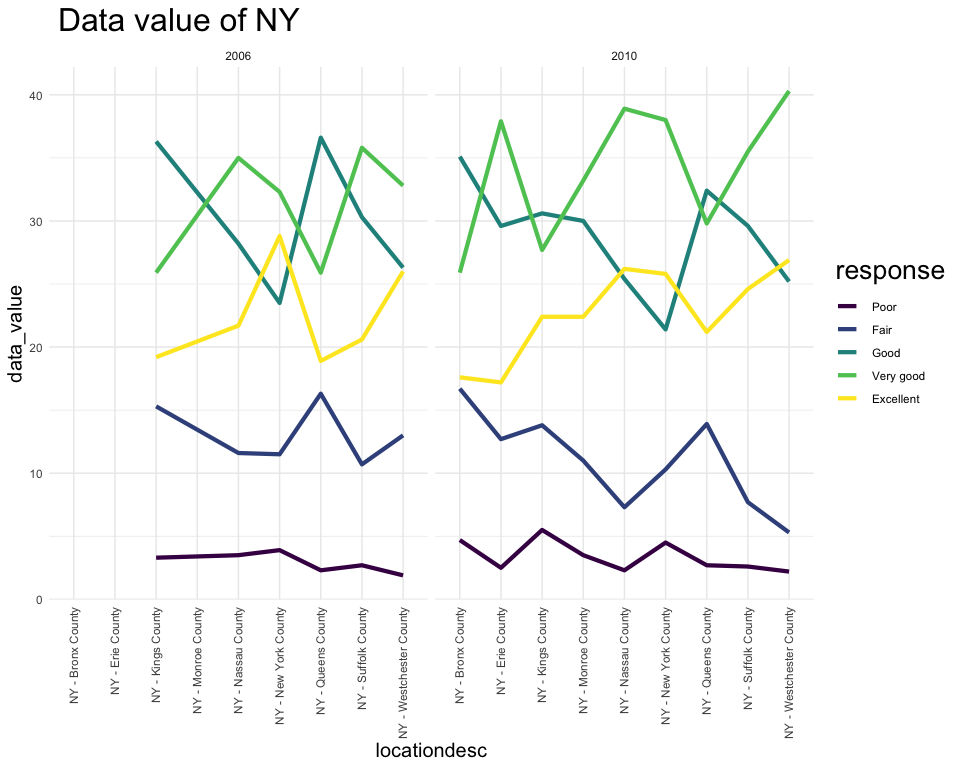
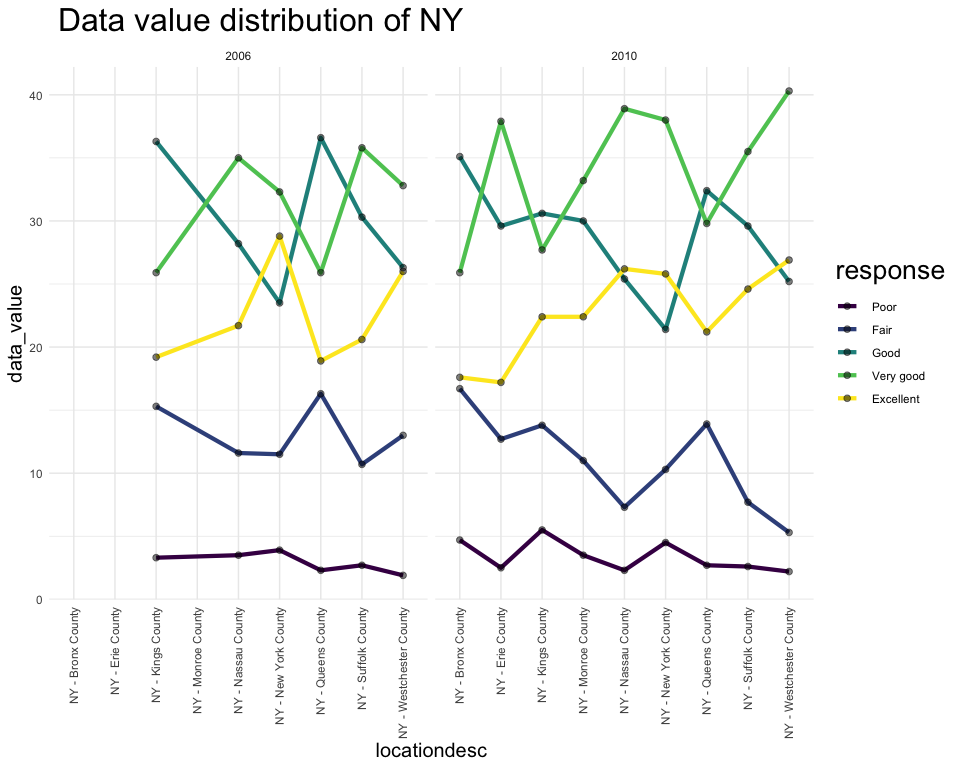
change plots of problem 2

Changed region(s): [[0.2188, 0.0, 0.5, 0.0625], [0.625, 0.3438, 0.6562, 0.375], [0.4062, 0.3438, 0.4375, 0.375]]

diff --git a/p8105_hw3_wx2233.md b/p8105_hw3_wx2233.md
@@ -297,35 +297,57 @@ ext_avg_data_value %>%
 ```
 
 <img src="p8105_hw3_wx2233_files/figure-gfm/unnamed-chunk-9-1.png" width="90%" />
+
 The average data value fluctuates by years for each
 state.
 
 ### c) Make a two-panel plot showing, for the years 2006, and 2010, distribution of data\_value for responses (“Poor” to “Excellent”) among locations in NY State.
 
 ``` r
-NY_data_value = brfss %>% 
-  filter(year == 2006 | year == 2010,state == "NY") %>% 
-  select(year,state,locationdesc,response,data_value)
-
-NY_data_value %>% 
-ggplot(aes(x = response, y = data_value,fill = locationdesc)) +
-  geom_bar(stat = "identity", position = "dodge") +
-  geom_line(aes(group = locationdesc, color = locationdesc)) +
-  geom_point(size = 1.5, alpha = 0.5)+
-  labs(
-    title = " Data value of NY"
-  ) +
-  facet_grid(. ~ year)
+# NY_data_value = brfss %>% 
+#   filter(year == 2006 | year == 2010,state == "NY") %>% 
+#   select(year,state,locationdesc,response,data_value)
+# 
+# NY_data_value %>% 
+# ggplot(aes(x = response, y = data_value,fill = locationdesc)) +
+#   geom_bar(stat = "identity", position = "dodge") +
+#   geom_line(aes(group = locationdesc, color = locationdesc)) +
+#   geom_point(size = 1.5, alpha = 0.5) +
+#   labs(
+#     title = " Data value of NY"
+#   ) +
+#   facet_grid(. ~ year)
 ```
 
-<img src="p8105_hw3_wx2233_files/figure-gfm/unnamed-chunk-10-1.png" width="90%" />
+``` r
+NY_data_value = brfss %>% 
+filter(year == 2006 | year == 2010,state == "NY") %>% 
+select(year,state,locationdesc,response,data_value)  
+NY_data_value
+```
+
+    ## # A tibble: 75 x 5
+    ##     year state locationdesc      response  data_value
+    ##    <int> <chr> <chr>             <fct>          <dbl>
+    ##  1  2010 NY    NY - Bronx County Excellent       17.6
+    ##  2  2010 NY    NY - Bronx County Very good       25.9
+    ##  3  2010 NY    NY - Bronx County Good            35.1
+    ##  4  2010 NY    NY - Bronx County Fair            16.7
+    ##  5  2010 NY    NY - Bronx County Poor             4.7
+    ##  6  2010 NY    NY - Erie County  Excellent       17.2
+    ##  7  2010 NY    NY - Erie County  Very good       37.9
+    ##  8  2010 NY    NY - Erie County  Good            29.6
+    ##  9  2010 NY    NY - Erie County  Fair            12.7
+    ## 10  2010 NY    NY - Erie County  Poor             2.5
+    ## # … with 65 more rows
 
 ``` r
 NY_data_value %>% 
 ggplot(aes(x = locationdesc, y = data_value,fill = response)) +
   geom_line(aes(group = response, color = response),size = 1.5) +
+  geom_point(size = 2, alpha = 0.5) +
   labs(
-    title = " Data value of NY"
+    title = " Data value distribution of NY"
   ) +
   facet_grid(. ~ year) +
   theme(
@@ -365,7 +387,9 @@ accel = read_csv("./data/accel_data.csv") %>%
     names_to = "activity_minute", 
     names_prefix = "activity_",
     values_to = "counts") %>% 
-  arrange(day_id)
+  mutate(
+    activity_minute = as.numeric(activity_minute)
+  )
 ```
 
     ## Parsed with column specification:
@@ -382,26 +406,26 @@ accel
 
     ## # A tibble: 50,400 x 6
     ##     week weekday_weekend day_id day    activity_minute counts
-    ##    <dbl> <fct>            <dbl> <fct>  <chr>            <dbl>
-    ##  1     1 weekday              1 Friday 1                 88.4
-    ##  2     1 weekday              1 Friday 2                 82.2
-    ##  3     1 weekday              1 Friday 3                 64.4
-    ##  4     1 weekday              1 Friday 4                 70.0
-    ##  5     1 weekday              1 Friday 5                 75.0
-    ##  6     1 weekday              1 Friday 6                 66.3
-    ##  7     1 weekday              1 Friday 7                 53.8
-    ##  8     1 weekday              1 Friday 8                 47.8
-    ##  9     1 weekday              1 Friday 9                 55.5
-    ## 10     1 weekday              1 Friday 10                43.0
+    ##    <dbl> <fct>            <dbl> <fct>            <dbl>  <dbl>
+    ##  1     1 weekday              1 Friday               1   88.4
+    ##  2     1 weekday              1 Friday               2   82.2
+    ##  3     1 weekday              1 Friday               3   64.4
+    ##  4     1 weekday              1 Friday               4   70.0
+    ##  5     1 weekday              1 Friday               5   75.0
+    ##  6     1 weekday              1 Friday               6   66.3
+    ##  7     1 weekday              1 Friday               7   53.8
+    ##  8     1 weekday              1 Friday               8   47.8
+    ##  9     1 weekday              1 Friday               9   55.5
+    ## 10     1 weekday              1 Friday              10   43.0
     ## # … with 50,390 more rows
 
-THe data has 50400 obs. of 6 variables:
+The data has 50400 obs. of 6 variables:
 
   - week: which week
   - weekday\_weekend: whether weekday or weekend
-  - day\_id: id of the day (id = 1~35)
-  - day: which day of a week
-  - activity\_minute: the minute of 24-hour day
+  - day\_id: id of the day
+  - day: factor variable shows which day of a week
+  - activity\_minute: the minute of a 24-hour day
   - count: the activity counts for each minute of a 24-hour day starting
     at
 midnight.
@@ -426,7 +450,9 @@ accel %>%
     day_index = rep(c(1:35),each = 1440)  #add new day_id 1:35
   ) %>% 
   select(week,week_day,day,day_index,everything())
+```
 
+``` r
 eachday_total = accel_new %>% 
   group_by(week, week_day, day,day_index) %>% 
   summarize(
@@ -474,6 +500,8 @@ knitr::kable(eachday_total)
 |    5 | 6         | Saturday  |         34 |   1440.00 |
 |    5 | 7         | Sunday    |         35 | 138421.00 |
 
+From the table I cannot see the trends clearly so I draw a plot.
+
 ``` r
 eachday_total %>% 
   ggplot(aes(x = day_index, y = total )) +
@@ -481,11 +509,11 @@ eachday_total %>%
   scale_x_continuous(breaks = seq(0, 35, 2))
 ```
 
-<img src="p8105_hw3_wx2233_files/figure-gfm/unnamed-chunk-13-1.png" width="90%" />
+<img src="p8105_hw3_wx2233_files/figure-gfm/unnamed-chunk-15-1.png" width="90%" />
 
 The activity counts have upper and lower fluctuation. Decreasing always
-occurs after increasing on last day. And the activity counts dramaticly
-decrease on day 27 and 34, both are
+occurs after increasing of the day before. And the activity counts
+dramaticly decrease on day 27 and 34, both are
 Saturday.
 
 ### c) Accelerometer data allows the inspection activity over the course of the day. Make a single-panel plot that shows the 24-hour activity time courses for each day and use color to indicate day of the week. Describe in words any patterns or conclusions you can make based on this graph.
@@ -494,21 +522,25 @@ Saturday.
 accel_new %>%
   ggplot(aes(x = activity_minute, y = counts, color = day)) +
   geom_line(stat = "identity") +
+  scale_x_continuous(breaks = seq(0,1440,60),label = c(0:24)) +
   labs(
     y = "activity for each day",
-    x = "day",
+    x = "24 hours",
     title = "The 24-hour Activity Time Courses for Each Day"
   )
 ```
 
-<img src="p8105_hw3_wx2233_files/figure-gfm/unnamed-chunk-14-1.png" width="90%" />
-I cannot clearly din
+<img src="p8105_hw3_wx2233_files/figure-gfm/unnamed-chunk-16-1.png" width="90%" />
+We can find that the activity counts during the morning 7am - 9 am and
+during the evening around 7pm - 9pm are higher. The activity counts are
+lower during midnight and early morning. But I cannot distinct each day
+clealy, so I draw another plot to gain more information.
 
 ``` r
 eachday =
 accel_new %>% 
   mutate(
-    act_min = as.numeric(activity_minute) + 
+    act_min = activity_minute + 
       1440 * (day_index - 1))
 
 eachday %>% 
@@ -522,9 +554,8 @@ eachday %>%
   )
 ```
 
-<img src="p8105_hw3_wx2233_files/figure-gfm/unnamed-chunk-15-1.png" width="90%" />
+<img src="p8105_hw3_wx2233_files/figure-gfm/unnamed-chunk-17-1.png" width="90%" />
 
-For first 10 days, the activity counts are increasing except Sunday.
-Then the activity counts decrease from day 11 to around day 25. For
-Saturday in last two weeks, both activity counts of the day decrease to
-1440.
+We can find that the activity counts are increasing except Sunday. Then
+the activity counts decrease from day 11 to around day 25. For Saturday
+in last two weeks, both activity counts of the day decrease to 1440.
